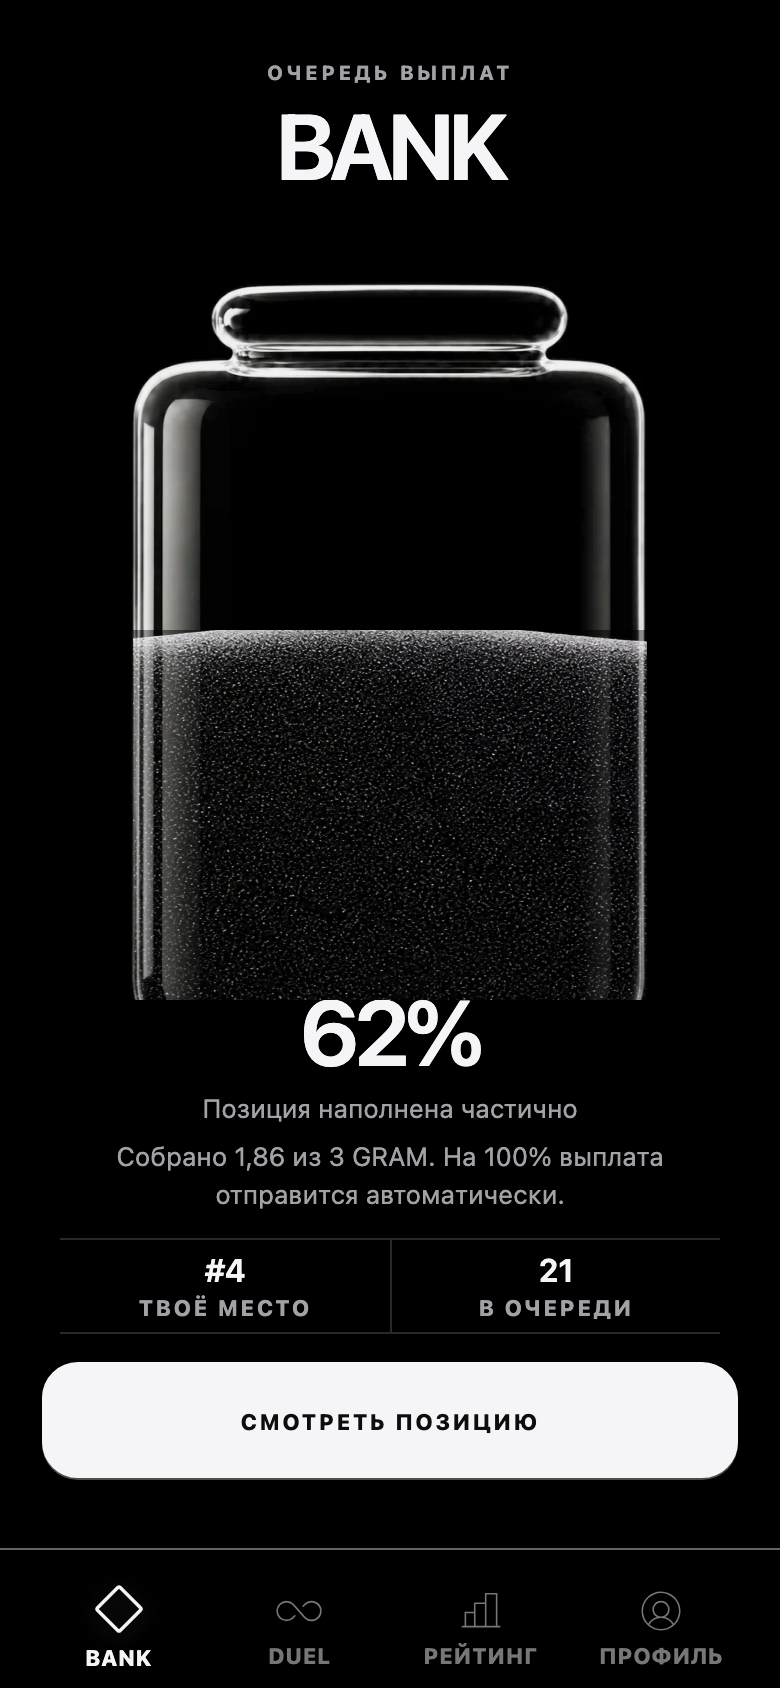
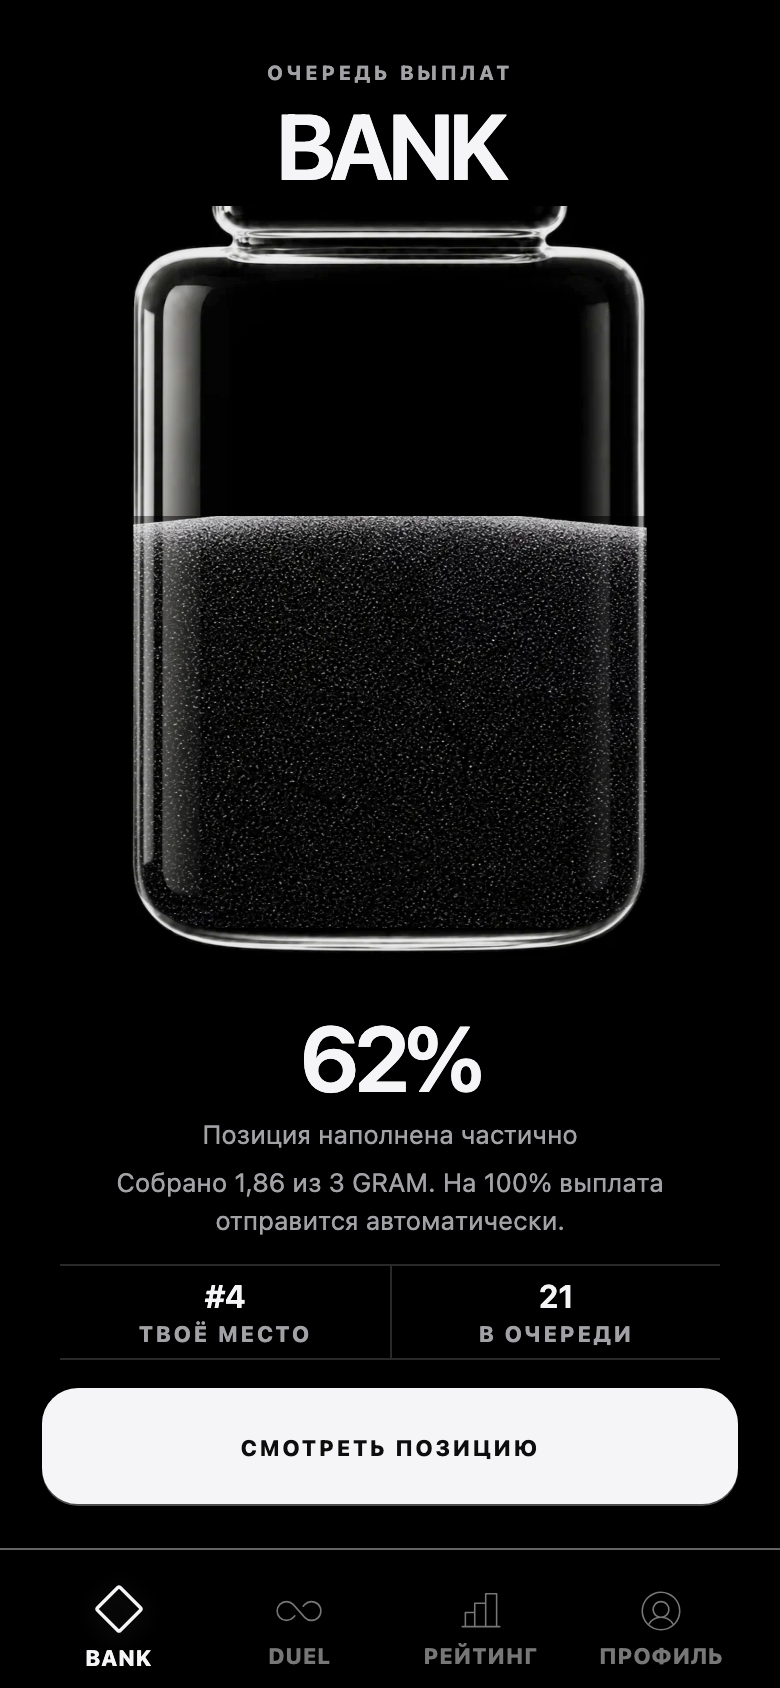
fix(web): show the whole BANK scale, and end a duel without pretending it waits
BANK. The jar hung from the top of a shorter clipping box, so 49px of a 354px
sand chamber sat below the cut — measured in the browser, not computed. That is
13.8% of the fill scale rendered invisible: a position under 14% looked like an
empty jar, and every reading above it was compressed against a floor the user
could not see. The grid track is now bottom-aligned, so the crop takes the neck,
which carries no data, instead of the bottom of the scale. The percentage no
longer overlaps the glass either: .bank-state was pulled up 7px into it.

DUEL result. The screen kept rendering the two-player stage with an hourglass
between them — the waiting metaphor — on a duel that had already settled. It is
gone once the result is in.

The one action is now asymmetric. After a loss the on-chain proof comes first
and the exit second, because the thing a person wants after losing money is to
check that it happened the way it was supposed to. After a win the exit comes
first and the proof second. Neither branch adds a prompt to play again; closing
a lost duel also resets the stake field to the contract minimum, so the path
back in is not one tap at whatever amount was just lost.

An expired offer now says so. The eyebrow and the sentence branch on
offerExpired the way the action button already did, and the stale "остановить
поиск можно в любой момент" line is suppressed once there is no search left to
stop. The copy points at ВЕРНУТЬ СТАВКУ, which is what the button says.

Changed region(s): [[0.0308, 0.1232, 0.9538, 0.8934]]

diff --git a/apps/web/src/features/duel/DuelScreen.tsx b/apps/web/src/features/duel/DuelScreen.tsx
@@ -143,8 +143,6 @@ export function DuelScreen({
     }
   }, [stake]);
   const terms = useMemo(() => canonicalTerms(requestedStake, chance), [chance, requestedStake]);
-  // A verified PLUSH BRICK holder pays no protocol fee on a won duel; the
-  // exemption is proven on chain by a permit attached to the offer.
   const feeNano = profile.plush_brick.fee_discount_active
     ? 0
     : (terms.totalPool * profile.plush_brick.duel_fee_bps) / 10_000;
@@ -442,7 +440,7 @@ export function DuelScreen({
         <h1 id="duel-title">DUEL</h1>
       </header>
 
-      {status !== 'idle' && (
+      {status !== 'idle' && status !== 'result' && (
         <div className={`duel-stage is-${status}`}>
           <span className="player-node">
             <User aria-hidden="true" />
@@ -451,7 +449,7 @@ export function DuelScreen({
             <HourglassSimple aria-hidden="true" />
           </span>
           <span className="player-node opponent">
-            {status === 'matched' || status === 'result' || invite ? (
+            {status === 'matched' || invite ? (
               <User weight="fill" aria-hidden="true" />
             ) : (
               <UserPlus aria-hidden="true" />
@@ -531,21 +529,20 @@ export function DuelScreen({
           <p className="eyebrow">
             {status === 'matched'
               ? 'СОПЕРНИК НАЙДЕН'
-              : mode === 'direct'
-                ? 'ПРЯМОЙ ВЫЗОВ'
-                : 'ПОИСК СОПЕРНИКА'}
+              : offerExpired
+                ? 'СРОК ВЫЗОВА ИСТЁК'
+                : mode === 'direct'
+                  ? 'ПРЯМОЙ ВЫЗОВ'
+                  : 'ПОИСК СОПЕРНИКА'}
           </p>
           <strong>
             {status === 'matched'
               ? duelBoosting
                 ? 'Соперник найден. Усилиться может каждый — твой шанс может и упасть.'
                 : 'Усиление закрыто. Открой результат — если откроет только соперник, весь пул уйдёт ему.'
-              : // Telling the player to close the app is only true while the
-                // offer is unmatched. Once a match lands there is no push
-                // notification, the secret lives on this device, and a player
-                // who does not reveal in time hands the whole pool to the
-                // opponent who did.
-                'Ищем соперника с такой же ставкой. Ставка уже списана. Как только соперник найдётся, вернись сюда и открой результат — если откроет только он, весь пул уйдёт ему.'}
+              : offerExpired
+                ? 'Соперник не нашёлся, и срок вызова истёк. Ставка не потеряна: забери её обратно кнопкой ниже.'
+                : 'Ищем соперника с такой же ставкой. Ставка уже списана. Как только соперник найдётся, вернись сюда и открой результат — если откроет только он, весь пул уйдёт ему.'}
           </strong>
           <div className="duel-live-numbers">
             <span>
@@ -624,7 +621,7 @@ export function DuelScreen({
               )}
             </div>
           )}
-          {status === 'searching' && (
+          {status === 'searching' && !offerExpired && (
             <p className="duel-live-help">
               Остановить поиск можно в любой момент. Возврат нужно подписать в кошельке.
             </p>
@@ -642,11 +639,6 @@ export function DuelScreen({
               ? `В кошелёк пришло ${formatGram(latestDuel.payout_nano, 3)} GRAM — ставка вернулась вместе с выигрышем.`
               : `Ставка ${formatGram(latestDuel.stake_nano, 3)} GRAM ушла сопернику.`}
           </p>
-          {latestDuel.settlement_proof_url && (
-            <a href={latestDuel.settlement_proof_url} target="_blank" rel="noreferrer">
-              Посмотреть операцию <ArrowSquareOut aria-hidden="true" />
-            </a>
-          )}
         </div>
       )}
 
@@ -672,17 +664,40 @@ export function DuelScreen({
 
       <div className="duel-actions">
         {status === 'result' && latestDuel && (
-          <button
-            className="secondary-button"
-            onClick={() => {
-              markDuelSeen(latestDuel.id);
-              setSeenDuelId(latestDuel.id);
-              setMessage('');
-              haptic('selection');
-            }}
-          >
-            ЗАКРЫТЬ
-          </button>
+          <>
+            {!resultWon && latestDuel.settlement_proof_url && (
+              <a
+                className="duel-direct-action"
+                href={latestDuel.settlement_proof_url}
+                target="_blank"
+                rel="noreferrer"
+              >
+                <ArrowSquareOut aria-hidden="true" /> ПОСМОТРЕТЬ ОПЕРАЦИЮ
+              </a>
+            )}
+            <button
+              className="secondary-button"
+              onClick={() => {
+                markDuelSeen(latestDuel.id);
+                setSeenDuelId(latestDuel.id);
+                setMessage('');
+                if (!resultWon) setStake('0.25');
+                haptic('selection');
+              }}
+            >
+              ЗАКРЫТЬ
+            </button>
+            {resultWon && latestDuel.settlement_proof_url && (
+              <a
+                className="duel-direct-action"
+                href={latestDuel.settlement_proof_url}
+                target="_blank"
+                rel="noreferrer"
+              >
+                <ArrowSquareOut aria-hidden="true" /> ПОСМОТРЕТЬ ОПЕРАЦИЮ
+              </a>
+            )}
+          </>
         )}
         {status === 'idle' && (
           <>

diff --git a/apps/web/src/components/DuelScreen.test.tsx b/apps/web/src/components/DuelScreen.test.tsx
@@ -269,6 +269,66 @@ describe('DuelScreen', () => {
     expect(screen.getByRole('button', { name: 'НАЙТИ СОПЕРНИКА' })).toBeVisible();
   });
 
+  it('puts the proof first after a loss and the exit first after a win', () => {
+    const proof = { settlement_proof_url: 'https://tonviewer.example/tx' };
+    const { unmount } = render(
+      <DuelScreen
+        profile={{ ...profile, wallet: walletOf('0:aaa') }}
+        offers={[]}
+        duels={[settledDuel({ winner_wallet: '0:bbb', ...proof })]}
+        invite={null}
+        onRefresh={vi.fn()}
+      />,
+    );
+
+    const afterLoss = screen.getByRole('button', { name: 'ЗАКРЫТЬ' }).parentElement!;
+    expect(afterLoss.firstElementChild).toHaveTextContent('ПОСМОТРЕТЬ ОПЕРАЦИЮ');
+    unmount();
+
+    render(
+      <DuelScreen
+        profile={{ ...profile, wallet: walletOf('0:aaa') }}
+        offers={[]}
+        duels={[settledDuel({ winner_wallet: '0:aaa', ...proof })]}
+        invite={null}
+        onRefresh={vi.fn()}
+      />,
+    );
+
+    const afterWin = screen.getByRole('button', { name: 'ЗАКРЫТЬ' }).parentElement!;
+    expect(afterWin.firstElementChild).toHaveTextContent('ЗАКРЫТЬ');
+  });
+
+  it('resets the stake to the minimum after a loss instead of reloading it', () => {
+    render(
+      <DuelScreen
+        profile={{ ...profile, wallet: walletOf('0:aaa') }}
+        offers={[]}
+        duels={[settledDuel({ winner_wallet: '0:bbb', stake_nano: 5_000_000_000 })]}
+        invite={null}
+        onRefresh={vi.fn()}
+      />,
+    );
+
+    fireEvent.click(screen.getByRole('button', { name: 'ЗАКРЫТЬ' }));
+
+    expect(screen.getByLabelText('Ставка в GRAM')).toHaveValue('0.25');
+  });
+
+  it('drops the waiting metaphor once the duel is settled', () => {
+    const { container } = render(
+      <DuelScreen
+        profile={{ ...profile, wallet: walletOf('0:aaa') }}
+        offers={[]}
+        duels={[settledDuel({ winner_wallet: '0:aaa' })]}
+        invite={null}
+        onRefresh={vi.fn()}
+      />,
+    );
+
+    expect(container.querySelector('.duel-stage')).toBeNull();
+  });
+
   it('offers no rematch wording that pushes a losing player straight back in', () => {
     render(
       <DuelScreen

diff --git a/apps/web/src/styles.css b/apps/web/src/styles.css
@@ -505,7 +505,8 @@ summary:focus-visible .disclosure-indicator {
   flex: 0 0 auto;
   margin: 7px 0 0;
   overflow: hidden;
-  place-items: center;
+  align-content: end;
+  place-items: end center;
   border: 0;
   background: transparent;
   cursor: pointer;
@@ -611,7 +612,7 @@ summary:focus-visible .disclosure-indicator {
   display: grid;
   width: 100%;
   justify-items: center;
-  margin-top: -7px;
+  margin-top: 6px;
   text-align: center;
 }
 
